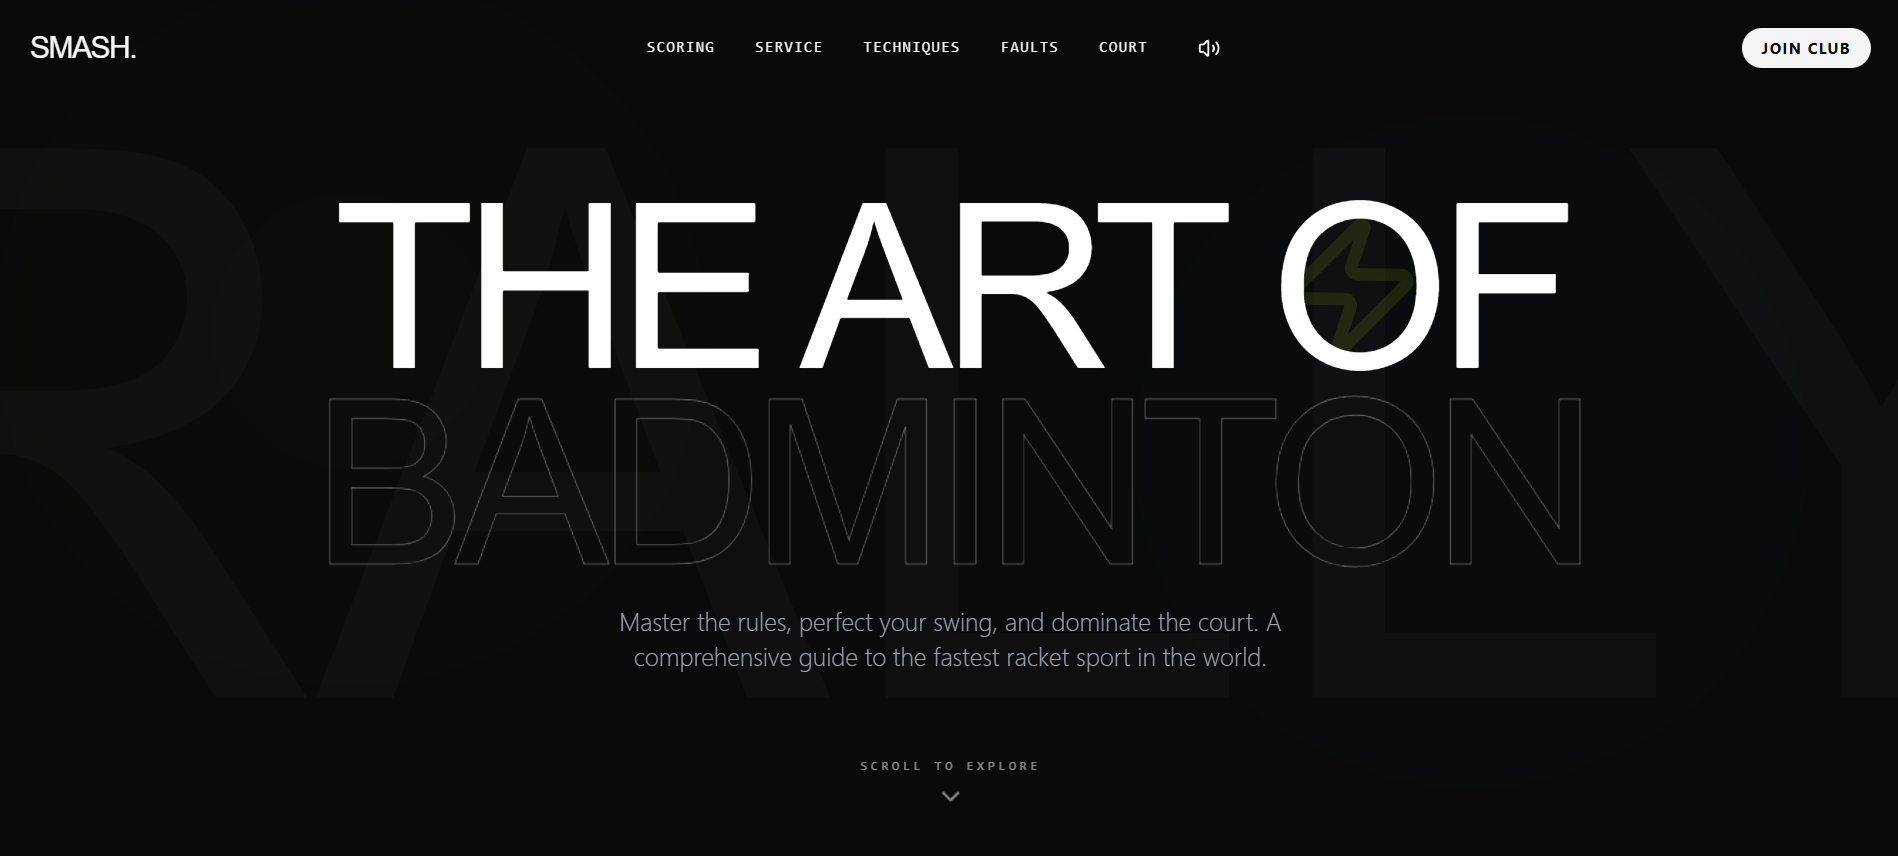
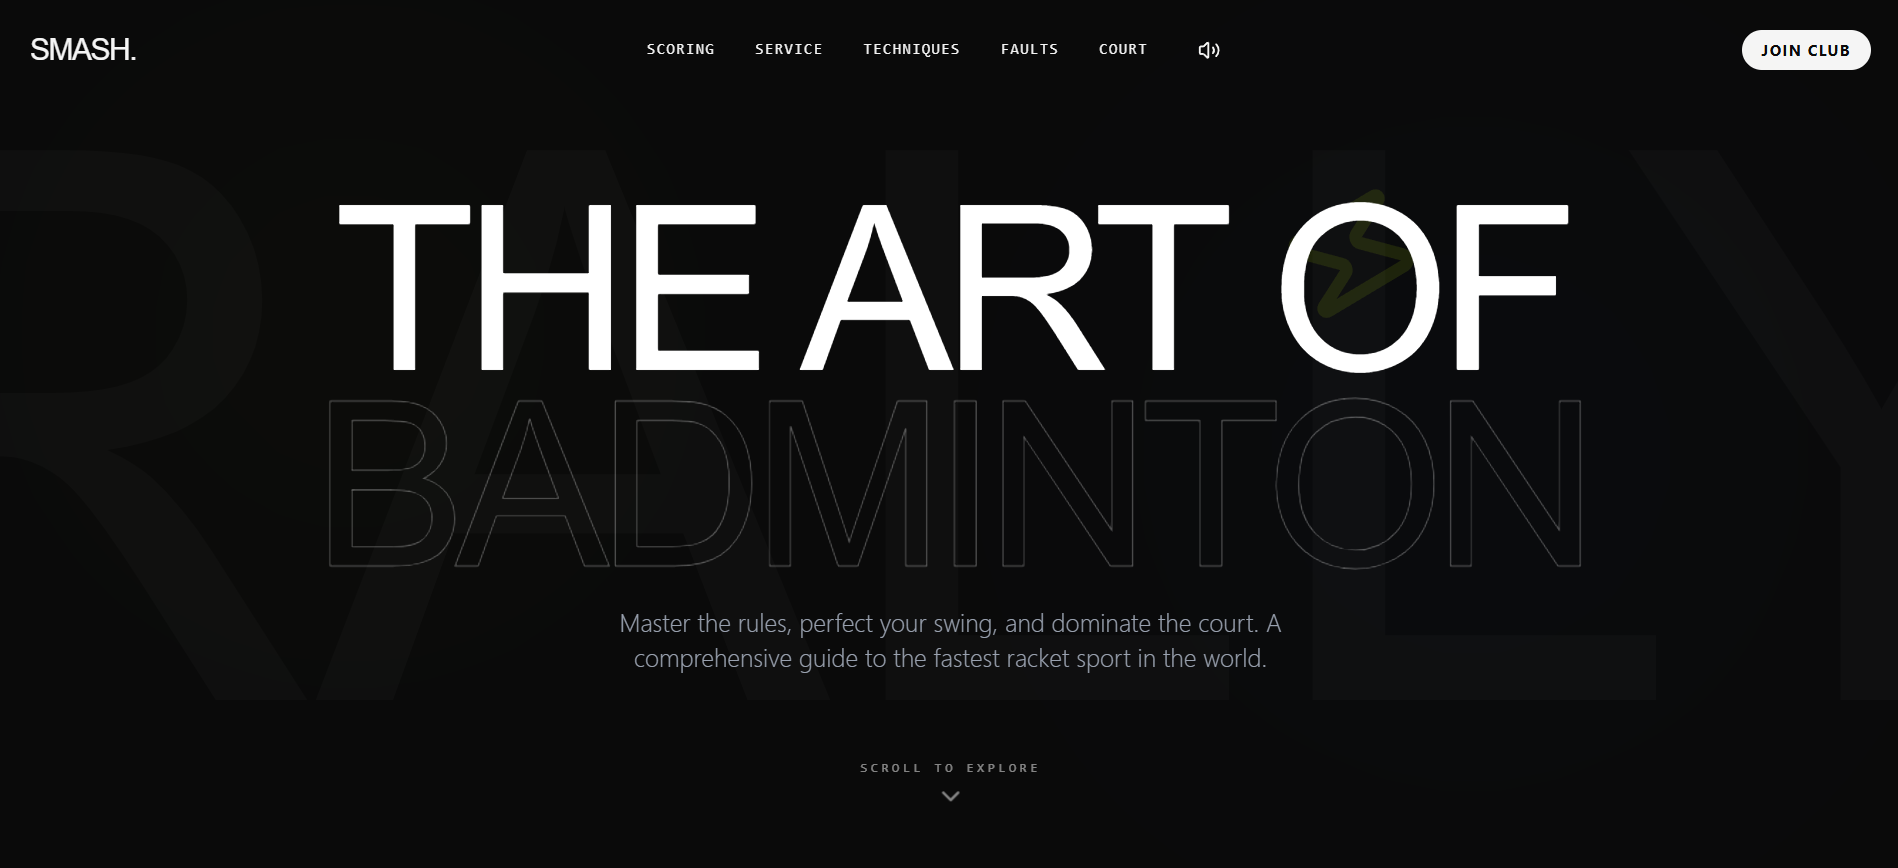
added project

diff --git a/src/data/portfolioData.js b/src/data/portfolioData.js
@@ -26,12 +26,22 @@ export const portfolioData = {
      {
       id:3,
       name:'Smash & Rally — Badminton Guide',
-      Tags: ['Propmt AI', 'Google AI Studio'],
+      Tags: ['Prompt AI', 'Google AI Studio'],
       desc:'Understand badminton rules, faults, scoring, and match formats easily.',
       category:'Vibe Coded',
       gitRepo:'https://github.com/Prateek-Lohani/Smash-Rally',
       live:'https://smashrally.netlify.app/',
       logo:'smashrally.png'
+    },
+    {
+      id:4,
+      name:'TradeMasterLab — Analyze and Invest',
+      Tags: ['Propmt AI', 'Google AI Studio'],
+      desc:'Study markets smartly, analyze charts, test strategies before investing wisely.',
+      category:'Vibe Coded',
+      gitRepo:'https://github.com/Prateek-Lohani/TradeMasterLab',
+      live:'https://trademasterlab.netlify.app/',
+      logo:'trademasterlab.png'
     },
   ],
   experience: [

diff --git a/src/components/Projects.jsx b/src/components/Projects.jsx
@@ -1,6 +1,7 @@
 import { portfolioData } from "../data/portfolioData";
 import synapseLogo from "url:../../public/assets/projects/synapse.png";
 import smashRallyLogo from "url:../../public/assets/projects/smashrally.png";
+import trademasterLogo from "url:../../public/assets/projects/trademasterlab.png";
 
 
 const Projects = () => {
@@ -8,6 +9,7 @@ const Projects = () => {
   const logoMap = {
     "synapse.png": synapseLogo,
     "smashrally.png": smashRallyLogo,
+    "trademasterlab.png": trademasterLogo
   };
 
   return (
